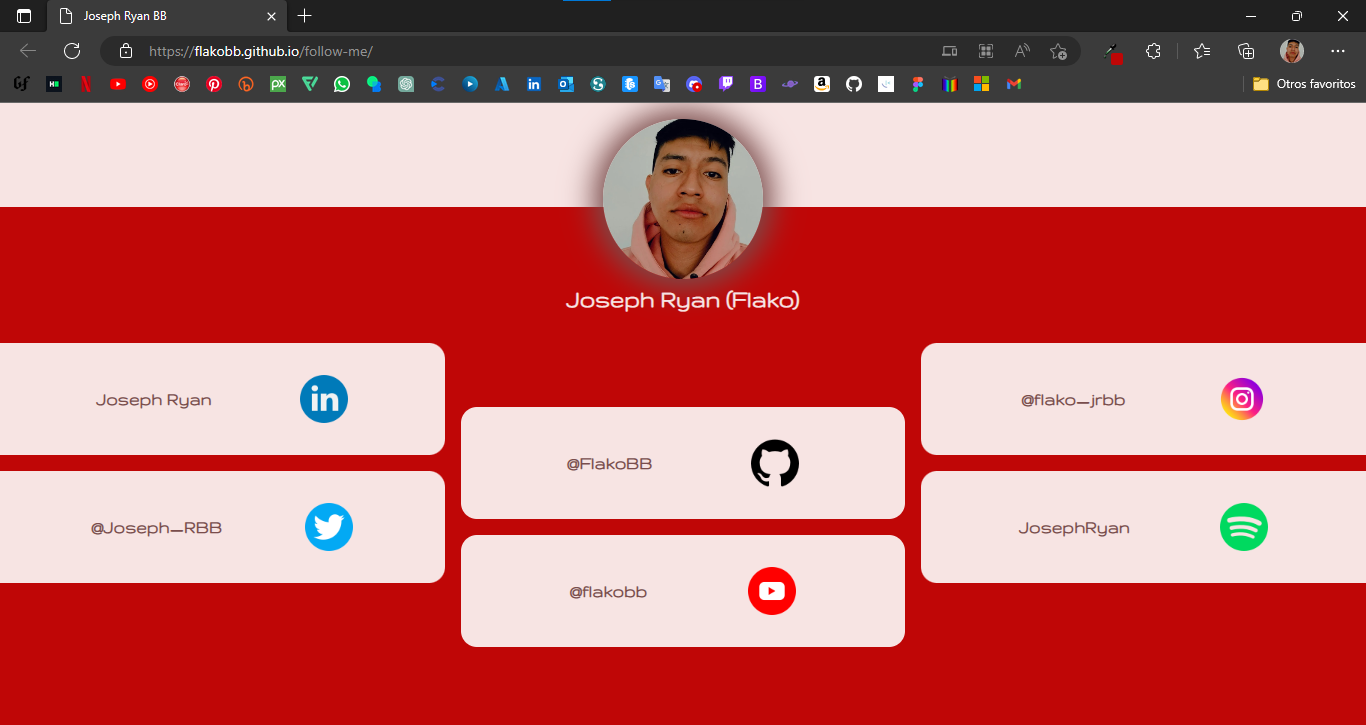
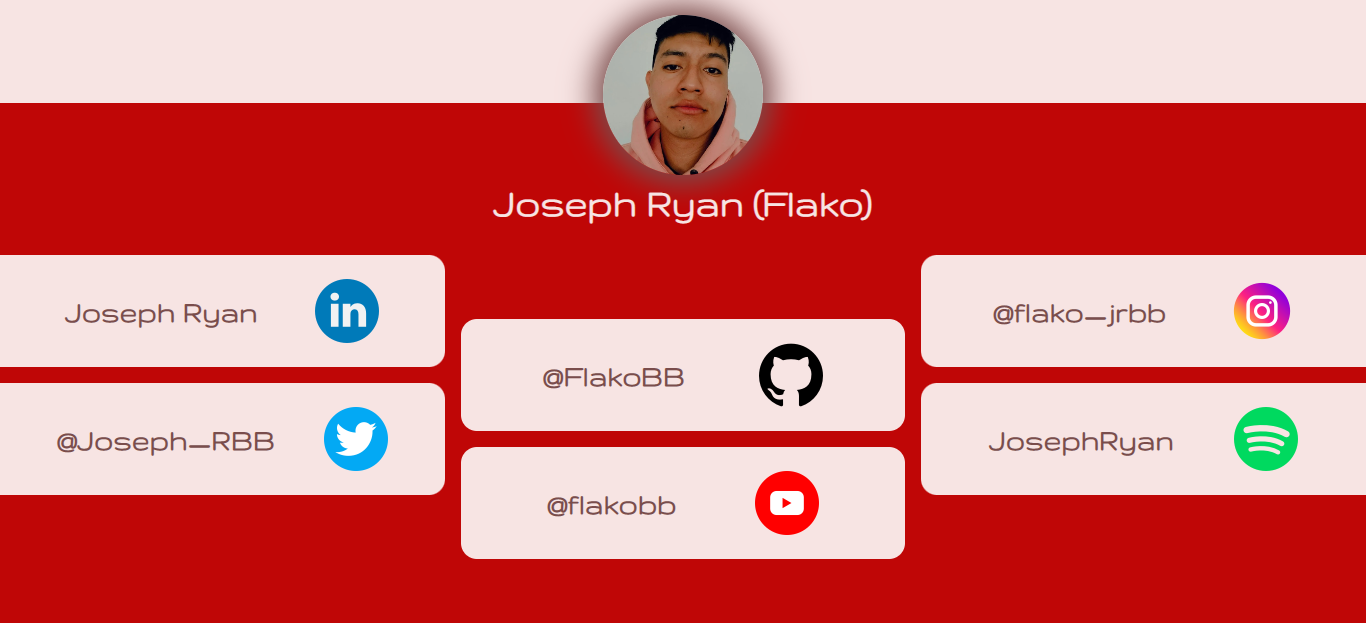
mejoras de estilos

diff --git a/css/style.css b/css/style.css
@@ -34,6 +34,14 @@ header img {
   background-color: #fa6464;
 }
 
+@media (min-width: 1024px) {
+  #enlace {
+    font-size: 2rem;
+  }
+  #enlace img {
+    width: 4rem;
+  }
+}
 * {
   margin: 0;
   padding: 0;
@@ -99,6 +107,9 @@ section .enlaces .spotify {
 }
 
 @media (min-width: 1024px) {
+  section h1 {
+    font-size: 2.6rem;
+  }
   nav.enlaces {
     display: grid;
     gap: 1rem;

diff --git a/sass/_components.scss b/sass/_components.scss
@@ -34,3 +34,14 @@ header {
         background-color: lighten($color: #BF0606, $amount: 30%);
     }
 }
+
+
+@media(min-width: 1024px) {
+    #enlace {
+        font-size: 2rem;
+
+        img {
+            width: 4rem;
+        }
+    }
+}

diff --git a/sass/_globals.scss b/sass/_globals.scss
@@ -75,6 +75,12 @@ section {
 }
 
 @media(min-width: 1024px) {
+section {
+    h1 {
+        font-size: 2.6rem;
+    }
+}
+
     nav.enlaces {
         display: grid;
         gap: 1rem;
